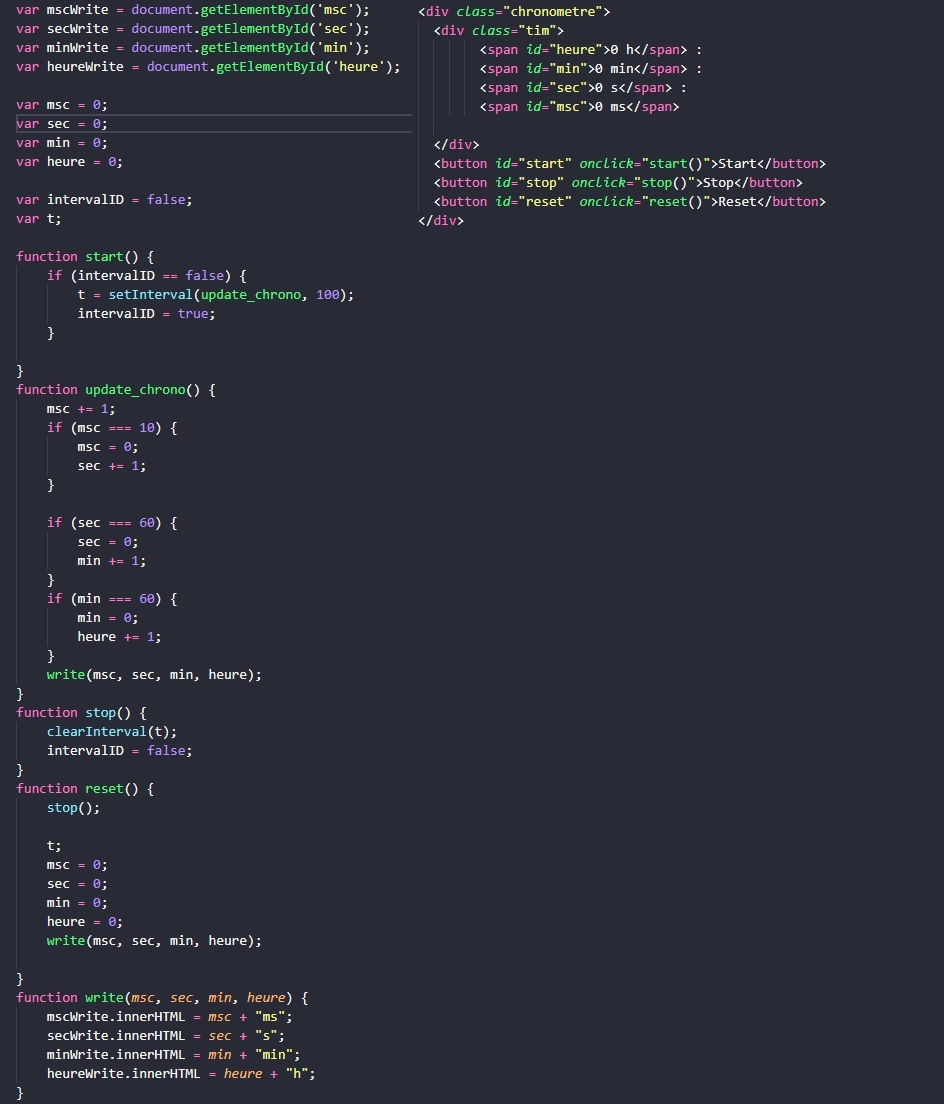
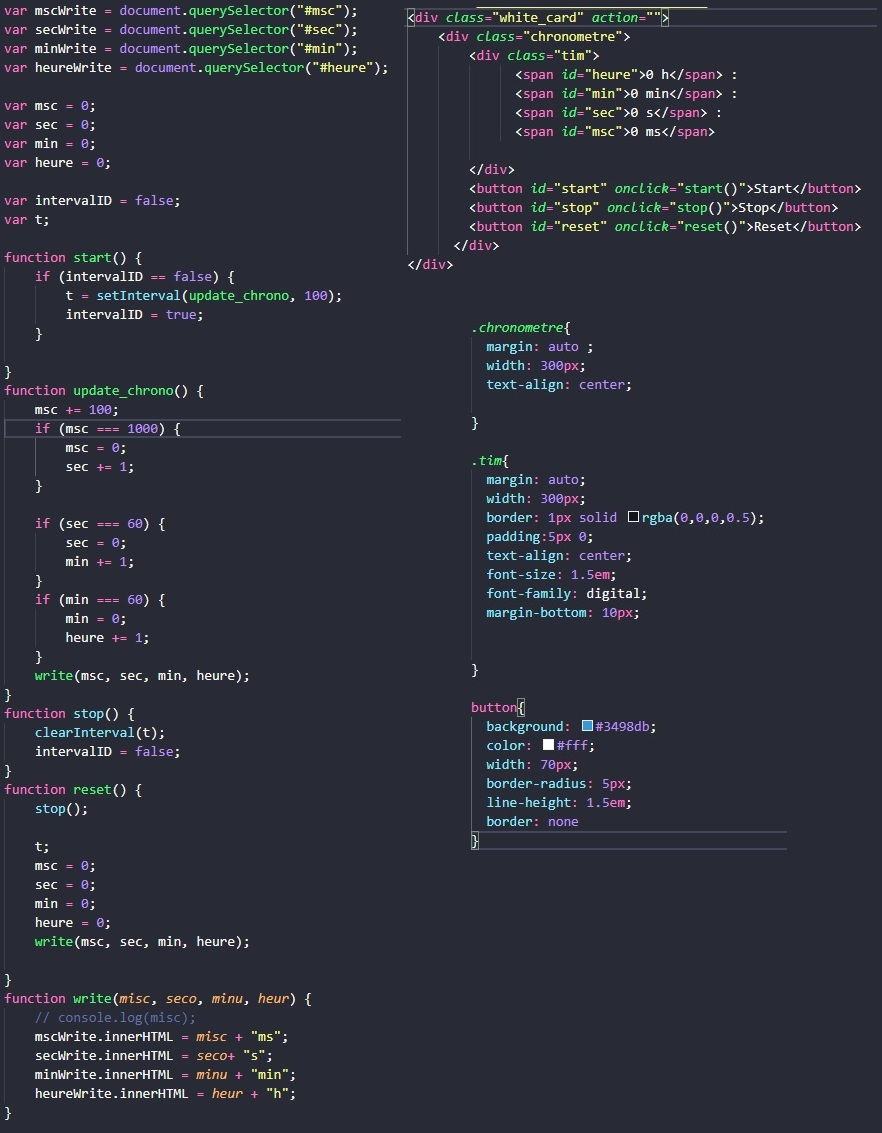
ajout boite à idées page 5

diff --git a/boite_a_idee_page3.html b/boite_a_idee_page3.html
@@ -62,12 +62,25 @@
     <div class="test">
         <div class="container_Boite">
             <div data-target="test" class="card_Boite" id="testOneBoite">
-                <img class="img_dim" src="../500_500img.png" alt="">
-                <div class="white_card" action=""></div>
+                <a href="./screen_idea_chrono_combi.jpg" target="_blank" rel="noopener noreferrer"><img class="img_dim" src="./screen_idea_chrono_combi.jpg" alt=""></a>
+                <div class="white_card" action="">
+                    <div class="chronometre">
+                        <div class="tim">
+                              <span id="heure">0 h</span> :
+                              <span id="min">0 min</span> :
+                              <span id="sec">0 s</span> :
+                              <span id="msc">0 ms</span>
+                      
+                        </div>
+                        <button id="start" onclick="start()">Start</button>
+                        <button id="stop" onclick="stop()">Stop</button>
+                        <button id="reset" onclick="reset()">Reset</button>
+                      </div>
+                </div>
             </div>
             <div data-target="test2" class="card_Boite" id="testTwoBoite">
                 <img class="img_dim" src="../500_500img.png" alt="">
-                <div class="white_card" action=""></div>
+                <div class="white_card" action="">Work in progress</div>
             </div>
         </div>
         <div class="experimentBoite"></div>
@@ -87,6 +100,7 @@
     <script src="https://cdnjs.cloudflare.com/ajax/libs/materialize/1.0.0/js/materialize.min.js"></script>
     <script src="https://ajax.googleapis.com/ajax/libs/jquery/3.2.1/jquery.min.js"></script>
     <script src="./main.js"></script>
+    <script src="./main_boit_page3.js"></script>
 </body>
 
 

diff --git a/main_boit_page3.js b/main_boit_page3.js
@@ -1,0 +1,60 @@
+// boîte 5
+var mscWrite = document.querySelector("#msc");
+var secWrite = document.querySelector("#sec");
+var minWrite = document.querySelector("#min");
+var heureWrite = document.querySelector("#heure");
+
+var msc = 0;
+var sec = 0;
+var min = 0;
+var heure = 0;
+
+var intervalID = false;
+var t;
+
+function start() {
+    if (intervalID == false) {
+        t = setInterval(update_chrono, 100);
+        intervalID = true;
+    }
+    
+}
+function update_chrono() {
+    msc += 100;
+    if (msc === 1000) {
+        msc = 0;
+        sec += 1;
+    }
+
+    if (sec === 60) {
+        sec = 0;
+        min += 1;
+    }
+    if (min === 60) {
+        min = 0;
+        heure += 1;
+    }
+    write(msc, sec, min, heure);
+}
+function stop() {
+    clearInterval(t);
+    intervalID = false;
+}
+function reset() {
+    stop();
+    
+    t;
+    msc = 0;
+    sec = 0;
+    min = 0;
+    heure = 0;
+    write(msc, sec, min, heure);
+
+}
+function write(misc, seco, minu, heur) {
+    // console.log(misc);
+    mscWrite.innerHTML = misc + "ms";
+    secWrite.innerHTML = seco+ "s";
+    minWrite.innerHTML = minu + "min";
+    heureWrite.innerHTML = heur + "h";
+}

diff --git a/style_boite.css b/style_boite.css
@@ -78,3 +78,32 @@
 .line_flex{
   display: flex;
 }
+/* boîte 5 */
+.chronometre{
+  margin: auto ;
+  width: 300px;
+  text-align: center;
+  
+}
+
+.tim{
+  margin: auto;
+  width: 300px;
+  border: 1px solid rgba(0,0,0,0.5);
+  padding:5px 0;
+  text-align: center;
+  font-size: 1.5em;
+  font-family: digital;
+  margin-bottom: 10px;
+
+
+}
+
+button{
+  background: #3498db;
+  color: #fff;
+  width: 70px;
+  border-radius: 5px;
+  line-height: 1.5em;
+  border: none
+}

diff --git a/main_boit.js b/main_boit.js
@@ -82,3 +82,4 @@ function changeImage() {
         document.getElementById('switch').src=images[1].src;
     }
 }
+
